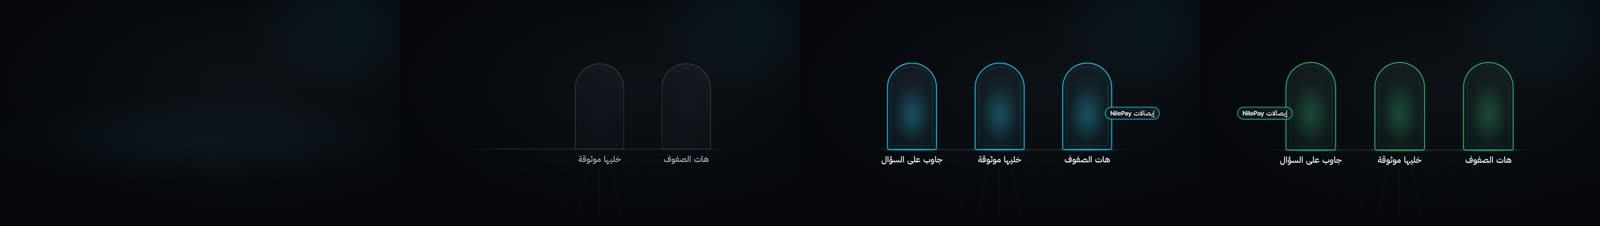
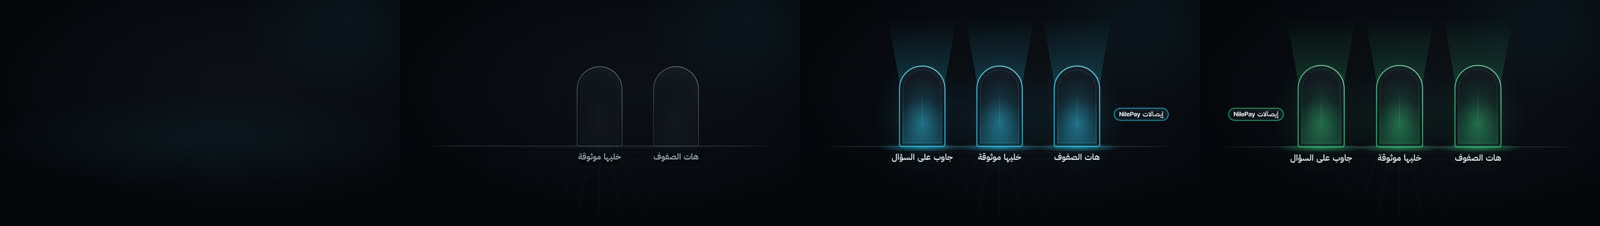
P7 dom-a: TripleGate finished (rim-lit portals, light shaft/pool, comet payload, seeded sparks, text-safe mask); snap PASS det 0 (pending-critic); perf lite 0.130 / standard 0.155 / hero 0.162 box s/frame; Arabic QA pass
Claude-Session: https://claude.ai/code/session_01VrU9wxU8GmuhdhWAAHnnQ8

diff --git a/studio/src/components/TripleGate/TripleGate.tsx b/studio/src/components/TripleGate/TripleGate.tsx
@@ -4,11 +4,17 @@
 // fail (crit barrier). Actions, each anchored to the word that names it (RV1 onset):
 //   ignite {gate | 'all'} -> the gate(s) light up (all: staggered 4 f@24);
 //   pass -> the payload travels through every gate; each gate turns ok as the payload crosses it;
-//   reject {gate} -> the payload stops at that gate, the gate turns fail, the payload recoils in crit and fades.
-// The travel spans the action word (anchor -> word end, at least 18 f@24). DOM only (no WebGL): every tier is the same code.
+//   reject {gate} -> the payload stops at that gate, the gate turns fail (3 f shake <= IMPACT.nudgePxMax), the payload recoils
+//   in crit and fades.
+// The travel spans the action word (anchor -> word end, at least 18 f@24).
+// Look (04 §1.2, ADR-003 LK-F): glowing acrylic arch with a key rim light from the upper right, a light shaft above and a
+// light pool on the floor of every lit gate (the lit gate is the brightest thing on screen), a back glow on the far plane, the
+// holographic floor grid, a comet trail on the payload, a floor ring and a few seeded sparks on every crossing.
+// DOM + SVG only (no WebGL, no filter, no mask-image: deterministic): every tier is the same code, the tier sets glow radii and
+// the spark count. Labels are the only copy; they are whole Arabic words/phrases through the type engine.
 import React from 'react';
-import {interpolate} from 'remotion';
-import {C, FONT, SIZE} from '../../tokens';
+import {interpolate, random} from 'remotion';
+import {C, FONT, IMPACT, SIZE} from '../../tokens';
 import {hex} from '../../fx/look';
 import {isArabic} from '../../type/arabic';
 import {ease} from '../../type/reveal';
@@ -19,13 +25,31 @@ import {FitText, Floor, Place, acrylic, actsOf, clamp, emit, ff, flashAt, layerS
 
 type GState = 'dormant' | 'lit' | 'open' | 'closed' | 'fail';
 const TONE: Record<GState, string> = {dormant: C.ink3, lit: C.signal, open: C.ok, closed: C.ink2, fail: C.crit};
-const ON: Record<GState, number> = {dormant: 0.12, lit: 1, open: 0.9, closed: 0.45, fail: 1};
+const ON: Record<GState, number> = {dormant: 0.12, lit: 1, open: 0.95, closed: 0.45, fail: 1};
 
 type Travel = {t0: number; t1: number; to: number; reject: boolean};
-/** Gate x as a fraction of the payload path (start right of gate 0 -> end left of gate 2). */
-const GATE_F = [0.17, 0.5, 0.83];
+
+const geometry = (box: Rect) => {
+  const labelH = Math.round(SIZE.body * 1.9);
+  const gw = Math.round(Math.min(box.w * 0.13, (box.h - labelH) * 0.42));
+  const gh = Math.round(Math.min((box.h - labelH) * 0.78, gw * 1.75));
+  const cy = box.y + (box.h - labelH) / 2 + 6;
+  const cw = Math.round(Math.min(box.w * 0.2, 360)); // payload capsule slot width: it never leaves the slot (title-safe)
+  const clear = 28;
+  // [payload start | gate 0 | gate 1 | gate 2 | payload end]: the capsule always clears the gate edges at both ends
+  const avail = box.w - 2 * (cw + clear);
+  const spacing = Math.max(gw * 1.05, Math.min((avail - gw) / 2, gw * 1.9));
+  const cx = box.x + box.w / 2;
+  const gx = [0, 1, 2].map((i) => cx + spacing * (1 - i)); // RTL: gate 0 on the right
+  const x0 = box.x + box.w - cw / 2; // payload start (right)
+  const x1 = box.x + cw / 2; // payload end (left)
+  const f = (x: number) => (x0 - x) / (x0 - x1);
+  return {labelH, gw, gh, cy, cw, clear, spacing, gx, x0, x1, gateF: gx.map(f), stopF: gx.map((x) => f(x + gw / 2 + clear + cw / 2)), floorY: cy + gh / 2};
+};
+type Geo = ReturnType<typeof geometry>;
 
 export const tripleTimeline = (p: Props, ctx: LayerCtx) => {
+  const G = geometry(ctx.box);
   const ev: {t: number; s: GState}[][] = p.gates.map((g) => [{t: -1e9, s: (g.state ?? 'dormant') as GState}]);
   for (const a of actsOf(ctx, 'ignite')) {
     const which = a.props.gate === 'all' ? [0, 1, 2] : [a.props.gate as number];
@@ -37,15 +61,16 @@ export const tripleTimeline = (p: Props, ctx: LayerCtx) => {
     const to = reject ? (a.props.gate as number) : 3;
     const t1 = Math.max(a.at + ff(18, ctx.fps), a.end);
     travels.push({t0: a.at, t1, to, reject});
-    // crossing frame of gate g: the eased path reaches GATE_F[g] (inverted numerically on whole frames: deterministic)
+    // crossing frame of gate g: the eased path reaches the gate (inverted numerically on whole frames: deterministic)
     const span = t1 - a.at;
-    const endF = reject ? GATE_F[to] - 0.06 : 1;
+    const endF = reject ? G.stopF[to] : 1;
     const pathAt = (t: number) => endF * interpolate(t + 1, [a.at, a.at + span], [0, 1], {...clamp, easing: ease.camera});
     for (let g = 0; g < 3; g++) {
       if (reject && g > to) continue;
+      const goal = reject && g === to ? endF - 1e-6 : G.gateF[g];
       let tc = t1;
       for (let t = a.at; t <= t1; t++)
-        if (pathAt(t) >= (reject && g === to ? endF - 1e-6 : GATE_F[g])) {
+        if (pathAt(t) >= goal) {
           tc = t;
           break;
         }
@@ -53,10 +78,10 @@ export const tripleTimeline = (p: Props, ctx: LayerCtx) => {
     }
   }
   ev.forEach((e) => e.sort((x, y) => x.t - y.t));
-  return {ev, travels};
+  return {ev, travels, G};
 };
 
-const gateLook = (e: {t: number; s: GState}[], ctx: LayerCtx): {tone: string; on: number; bar: number; s: GState; flash: number} => {
+const gateLook = (e: {t: number; s: GState}[], ctx: LayerCtx) => {
   let k = 0;
   for (let j = 0; j < e.length; j++) if (e[j].t <= ctx.frame) k = j;
   const cur = e[k];
@@ -68,82 +93,151 @@ const gateLook = (e: {t: number; s: GState}[], ctx: LayerCtx): {tone: string; on
     on: ON[prev.s] + (ON[cur.s] - ON[prev.s]) * q,
     bar: barOf(prev.s) + (barOf(cur.s) - barOf(prev.s)) * q,
     s: cur.s,
+    t: k === 0 ? null : cur.t,
     flash: k === 0 ? 0 : flashAt(ctx, cur.t),
   };
 };
 
-const geometry = (box: Rect) => {
-  const labelH = Math.round(SIZE.body * 1.9);
-  const gw = Math.round(Math.min(box.w * 0.14, (box.h - labelH) * 0.42));
-  const gh = Math.round(Math.min((box.h - labelH) * 0.78, gw * 1.75));
-  const cy = box.y + (box.h - labelH) / 2 + 6;
-  const cw = Math.round(Math.min(box.w * 0.26, 420)); // payload capsule width: it never leaves the slot (title-safe)
-  const x0 = box.x + box.w - cw / 2; // payload start (right)
-  const x1 = box.x + cw / 2; // payload end (left)
-  const gx = GATE_F.map((f) => x0 + (x1 - x0) * f);
-  return {labelH, gw, gh, cy, x0, x1, gx, cw};
+/** Arch outline path in a gw x gh box (round top, small bottom corners), inset by the half stroke. */
+const archPath = (w: number, h: number, i = 1.5, rb = 10): string => {
+  const r = w / 2 - i;
+  return `M ${i} ${h - i - rb} V ${w / 2} A ${r} ${r} 0 0 1 ${w - i} ${w / 2} V ${h - i - rb} Q ${w - i} ${h - i} ${w - i - rb} ${h - i} H ${i + rb} Q ${i} ${h - i} ${i} ${h - i - rb} Z`;
+};
+
+/** Seeded sparks leaving the floor line of a gate for 14 f@24; count follows the tier (lite 8, standard / hero 16). */
+const Sparks: React.FC<{ctx: LayerCtx; seed: string; x: number; y: number; t0: number; tone: string; reach: number}> = ({ctx, seed, x, y, t0, tone, reach}) => {
+  const life = ff(14, ctx.fps);
+  const age = ctx.frame - t0;
+  if (age < 0 || age > life) return null;
+  const n = Math.max(0, Math.min(16, Math.round(ctx.fx.particles / 90)));
+  const q = age / life;
+  return (
+    <>
+      {Array.from({length: n}, (_, k) => {
+        const ang = -Math.PI * (0.12 + 0.76 * random(`${seed}:a${k}`));
+        const sp = reach * (0.45 + 0.55 * random(`${seed}:s${k}`));
+        const e = 1 - Math.pow(1 - q, 2.2);
+        const sz = 3 + 3 * random(`${seed}:z${k}`);
+        return (
+          <div
+            key={k}
+            style={{
+              position: 'absolute',
+              left: x + Math.cos(ang) * sp * e - sz / 2,
+              top: y + Math.sin(ang) * sp * e - sz / 2 + 22 * q * q,
+              width: sz,
+              height: sz,
+              borderRadius: '50%',
+              background: tone,
+              opacity: 1 - q,
+              boxShadow: `0 0 ${(ctx.fx.glowInner * 0.8).toFixed(1)}px ${tone}`,
+            }}
+          />
+        );
+      })}
+    </>
+  );
 };
 
 export const TripleGateView: React.FC<DcProps<Props>> = ({props, ctx}) => {
-  const {ev, travels} = tripleTimeline(props, ctx);
-  const G = geometry(ctx.box);
+  const {ev, travels, G} = tripleTimeline(props, ctx);
   const t = ctx.frame;
-  const spacing = G.gx[0] - G.gx[1];
   const fx = ctx.fx;
+  const spacing = G.spacing;
   // payload position along the path
   let pf = 0; // 0..1 of the path
   let payTone: string = C.signal;
   let payAlpha = props.payload ? 1 : 0;
   let moving = false;
+  let trail = 0;
   for (const tr of travels) {
     if (t < tr.t0) break;
-    const endF = tr.reject ? GATE_F[tr.to] - 0.06 : 1;
+    const endF = tr.reject ? G.stopF[tr.to] : 1;
     const q = interpolate(t + 1, [tr.t0, tr.t1], [0, 1], {...clamp, easing: ease.camera});
     pf = endF * q;
     moving = t < tr.t1;
+    trail = moving ? 1 : interpolate(t - tr.t1, [0, ff(6, ctx.fps)], [1, 0], clamp);
     payAlpha = 1;
     payTone = C.signal;
     if (tr.reject && t >= tr.t1) {
       const r = prog(ctx, tr.t1, 'arrive', ease.camera, true);
-      pf = endF - 0.08 * r;
+      pf = endF - 0.04 * r;
       payTone = mix(C.signal, C.crit, prog(ctx, tr.t1, 'label'));
       payAlpha = 1 - interpolate(t - tr.t1, [ff(10, ctx.fps), ff(22, ctx.fps)], [0, 1], clamp);
     } else if (!tr.reject && t >= tr.t1) payTone = C.ok;
   }
   const px = G.x0 + (G.x1 - G.x0) * pf;
+  const payY = G.cy + G.gh * 0.1;
   const payIn = prog(ctx, ctx.at + ff(10, ctx.fps), 'arrive');
   const rtl = props.gates.some((g) => isArabic(g.label));
   const glowK = 1 + ctx.mod.glow;
+  const shaftBase = G.cy - G.gh * 0.15; // the shaft rises from inside the arch (the opaque acrylic hides its foot)
+  const shaftH = Math.max(0, shaftBase - ctx.box.y) * 0.95;
+  const uid = ctx.id.replace(/\W/g, '_');
   return (
     <div style={{position: 'absolute', inset: 0, ...layerStyle(ctx, rtl)}}>
-      <Floor x={ctx.box.x} y={G.cy + G.gh / 2 - 4} w={ctx.box.w} h={Math.round(ctx.box.h * 0.35)} opacity={0.55} />
-      {/* path rail */}
-      <div style={{position: 'absolute', left: G.x1, top: G.cy + G.gh / 2 - 3, width: G.x0 - G.x1, height: 2, background: `linear-gradient(270deg, transparent, ${C.ink3}${hex(0.5)} 12%, ${C.ink3}${hex(0.5)} 88%, transparent)`}} />
+      <Floor x={ctx.box.x} y={G.floorY - 4} w={ctx.box.w} h={Math.round(ctx.box.h * 0.35)} opacity={0.55} />
+      {/* path rail on the floor line */}
+      <div style={{position: 'absolute', left: G.x1 - G.cw / 2, top: G.floorY - 2, width: G.x0 - G.x1 + G.cw, height: 2, background: `linear-gradient(270deg, transparent, ${C.ink3}${hex(0.55)} 10%, ${C.ink3}${hex(0.55)} 90%, transparent)`}} />
       {props.gates.map((g, i) => {
         const lk = gateLook(ev[i], ctx);
-        const ent = prog(ctx, ctx.at + ff(4 * i, ctx.fps), 'arrive');
-        if (t < ctx.at + ff(4 * i, ctx.fps)) return null;
-        const on = lk.on * glowK + lk.flash * 0.8;
+        const at = ctx.at + ff(4 * i, ctx.fps);
+        if (t < at) return null;
+        const ent = prog(ctx, at, 'arrive');
+        const on = Math.min(1.6, lk.on * glowK + lk.flash * 0.8);
+        const on1 = Math.min(1, lk.on);
         const x = G.gx[i];
+        const shake =
+          lk.s === 'fail' && lk.t !== null && t - lk.t < ff(3, ctx.fps) ? (random(`${ctx.id}:shake:${i}:${t - lk.t}`) * 2 - 1) * IMPACT.nudgePxMax : 0;
+        const rim = `rim_${uid}_${i}`;
+        const shaft = `sh_${uid}_${i}`;
+        const ringQ = lk.t !== null && lk.s !== 'dormant' ? prog(ctx, lk.t, 'morph', ease.arrive, true) : 1;
+        const ringA = lk.t !== null && lk.s !== 'dormant' ? 1 - ringQ : 0;
         return (
           <React.Fragment key={i}>
+            {/* far plane: back glow behind the arch */}
+            <div style={{position: 'absolute', left: x - G.gw * 1.1, top: G.cy - G.gh * 0.7, width: G.gw * 2.2, height: G.gh * 1.5, opacity: ent * on1, background: `radial-gradient(ellipse 50% 50% at 50% 55%, ${lk.tone}${hex(0.2 + 0.1 * lk.flash)} 0%, ${lk.tone}${hex(0.05)} 55%, transparent 100%)`}} />
+            {/* light shaft above the arch (haze role: decoration, no copy) */}
+            {shaftH > 40 && on1 > 0.2 ? (
+              <svg width={G.gw * 1.5} height={shaftH} style={{position: 'absolute', left: x - G.gw * 0.75, top: shaftBase - shaftH, opacity: ent * on1}}>
+                <defs>
+                  <linearGradient id={shaft} x1="0" y1="1" x2="0" y2="0">
+                    <stop offset="0" stopColor={lk.tone} stopOpacity={0.22 + 0.18 * lk.flash} />
+                    <stop offset="1" stopColor={lk.tone} stopOpacity={0} />
+                  </linearGradient>
+                </defs>
+                <polygon points={`${G.gw * 0.3},${shaftH} ${G.gw * 1.2},${shaftH} ${G.gw * 1.5},0 0,0`} fill={`url(#${shaft})`} />
+              </svg>
+            ) : null}
             <div
               style={{
                 position: 'absolute',
-                left: x - G.gw / 2,
+                boxSizing: 'border-box',
+                left: x - G.gw / 2 + shake,
                 top: G.cy - G.gh / 2,
                 width: G.gw,
                 height: G.gh,
                 opacity: ent,
                 transform: `translateY(${((1 - ent) * 18).toFixed(1)}px)`,
-                ...acrylic(lk.tone, fx, Math.min(1.6, on), 0),
+                ...acrylic(lk.tone, fx, on, 0),
                 borderRadius: `${G.gw / 2}px ${G.gw / 2}px 10px 10px`,
                 borderWidth: 3,
               }}
             >
-              {/* portal light (inner field) */}
-              <div style={{position: 'absolute', inset: 10, borderRadius: `${G.gw / 2 - 10}px ${G.gw / 2 - 10}px 6px 6px`, background: `radial-gradient(ellipse 70% 60% at 50% 60%, ${lk.tone}${hex(0.32 * Math.min(1, lk.on) + 0.25 * lk.flash)} 0%, ${lk.tone}${hex(0.06 * lk.on)} 60%, transparent 100%)`}} />
-              <div style={{position: 'absolute', inset: 16, borderRadius: `${G.gw / 2 - 16}px ${G.gw / 2 - 16}px 4px 4px`, border: `1.5px solid ${lk.tone}${hex(0.15 + 0.35 * Math.min(1, lk.on))}`}} />
+              {/* portal light: the field fills from the floor up, hot core when it flashes */}
+              <div style={{position: 'absolute', inset: 10, borderRadius: `${G.gw / 2 - 10}px ${G.gw / 2 - 10}px 6px 6px`, background: `radial-gradient(ellipse 75% 62% at 50% 72%, ${lk.tone}${hex(0.42 * on1 + 0.3 * lk.flash)} 0%, ${lk.tone}${hex(0.1 * on1)} 62%, transparent 100%), linear-gradient(0deg, ${lk.tone}${hex(0.2 * on1)} 0%, transparent 55%)`}} />
+              <div style={{position: 'absolute', left: '50%', top: '30%', width: 4, height: '50%', marginLeft: -2, borderRadius: 2, background: `linear-gradient(180deg, transparent, ${C.ink}${hex(0.5 * lk.flash + 0.12 * on1)}, transparent)`}} />
+              <div style={{position: 'absolute', inset: 16, borderRadius: `${G.gw / 2 - 16}px ${G.gw / 2 - 16}px 4px 4px`, border: `1.5px solid ${lk.tone}${hex(0.15 + 0.35 * on1)}`}} />
+              {/* key rim light from the upper right (04 §1.2) */}
+              <svg width={G.gw} height={G.gh} style={{position: 'absolute', left: -3, top: -3, overflow: 'visible'}}>
+                <defs>
+                  <linearGradient id={rim} gradientUnits="userSpaceOnUse" x1={G.gw} y1={0} x2={G.gw * 0.15} y2={G.gh * 0.7}>
+                    <stop offset="0" stopColor={C.ink} stopOpacity={0.35 + 0.5 * on1} />
+                    <stop offset="1" stopColor={C.ink} stopOpacity={0} />
+                  </linearGradient>
+                </defs>
+                <path d={archPath(G.gw, G.gh)} fill="none" stroke={`url(#${rim})`} strokeWidth={2.5} strokeLinecap="round" />
+              </svg>
               {/* barrier (closed / fail) */}
               {lk.bar > 0.01 ? (
                 <div style={{position: 'absolute', left: 8, right: 8, top: '58%', height: 10, borderRadius: 5, background: lk.tone, opacity: lk.bar, transform: `scaleX(${lk.bar.toFixed(3)})`, boxShadow: emit(lk.tone, fx, 0.8)}} />
@@ -157,27 +251,47 @@ export const TripleGateView: React.FC<DcProps<Props>> = ({props, ctx}) => {
                 </svg>
               ) : null}
             </div>
-            {/* floor reflection */}
-            <div style={{position: 'absolute', left: x - G.gw * 0.7, top: G.cy + G.gh / 2 - 10, width: G.gw * 1.4, height: 20, borderRadius: '50%', background: `radial-gradient(ellipse, ${lk.tone}${hex(0.35 * Math.min(1, lk.on) * ent)} 0%, transparent 70%)`}} />
-            <Place x={x} y={G.cy + G.gh / 2 + G.labelH / 2 + 8} w={spacing - 40} h={G.labelH} style={{opacity: ent}}>
+            {/* light pool on the floor + crossing ring */}
+            <div style={{position: 'absolute', left: x - G.gw * 0.95, top: G.floorY - 16, width: G.gw * 1.9, height: 40, borderRadius: '50%', background: `radial-gradient(ellipse, ${lk.tone}${hex(0.5 * on1 * ent + 0.25 * lk.flash)} 0%, ${lk.tone}${hex(0.12 * on1)} 55%, transparent 72%)`}} />
+            {ringA > 0.01 ? (
+              <div style={{position: 'absolute', left: x - G.gw * (0.5 + 0.9 * ringQ), top: G.floorY - 18 * (0.4 + ringQ), width: G.gw * (1 + 1.8 * ringQ), height: 36 * (0.4 + ringQ), borderRadius: '50%', border: `2px solid ${lk.tone}${hex(0.8 * ringA)}`}} />
+            ) : null}
+            {lk.t !== null && lk.s !== 'dormant' && lk.s !== 'lit' && lk.s !== 'closed' ? (
+              <Sparks ctx={ctx} seed={`${ctx.id}:sp:${i}:${lk.t}`} x={x} y={G.floorY} t0={lk.t} tone={lk.tone} reach={G.gh * 0.38} />
+            ) : null}
+            <Place x={x} y={G.floorY + G.labelH / 2 + 12} w={spacing - 40} h={G.labelH} style={{opacity: ent}}>
               <FitText id={`${ctx.id}:g${i}`} text={g.label} size={SIZE.body} maxW={spacing - 40} color={lk.s === 'dormant' ? C.ink2 : C.ink} weight={FONT.label.strong} />
             </Place>
           </React.Fragment>
         );
       })}
       {payAlpha > 0.01 && t >= ctx.at + ff(10, ctx.fps) ? (
-        <Place x={px} y={G.cy + G.gh * 0.08} w={G.cw} h={Math.round(SIZE.label * 2.2)} style={{opacity: payAlpha * payIn, zIndex: 2}}>
-          {props.payload ? (
-            <div style={{...acrylic(payTone, fx, 1.1 * glowK, 999), padding: `6px ${Math.round(SIZE.label * 0.7)}px`, display: 'flex', alignItems: 'center', transform: moving ? 'scale(1.04)' : undefined}}>
-              <FitText id={`${ctx.id}:payload`} text={props.payload} size={SIZE.label} maxW={G.cw - Math.round(SIZE.label * 1.6) - 4} color={C.ink} />
-            </div>
-          ) : (
-            <div style={{width: 26, height: 26, borderRadius: '50%', background: payTone, boxShadow: emit(payTone, fx, 1.4)}} />
-          )}
-        </Place>
+        <>
+          {/* comet trail behind the moving capsule (it travels right -> left, the tail streams to the right) */}
+          {trail > 0.01 ? (
+            <div style={{position: 'absolute', left: px, top: payY - 4, width: Math.min(G.cw * 0.9, 300) * trail, height: 8, borderRadius: 4, opacity: payAlpha * payIn, background: `linear-gradient(90deg, ${payTone}${hex(0.55)} 0%, transparent 100%)`}} />
+          ) : null}
+          <Place x={px} y={payY} w={G.cw} h={Math.round(SIZE.label * 2.2)} style={{opacity: payAlpha * payIn, zIndex: 2}}>
+            {props.payload ? (
+              <div style={{...acrylic(payTone, fx, 1.1 * glowK, 999), padding: `6px ${Math.round(SIZE.label * 0.7)}px`, display: 'flex', alignItems: 'center', transform: moving ? 'scale(1.04)' : undefined}}>
+                <FitText id={`${ctx.id}:payload`} text={props.payload} size={SIZE.label} maxW={G.cw - Math.round(SIZE.label * 1.6) - 4} color={C.ink} />
+              </div>
+            ) : (
+              <div style={{width: 26, height: 26, borderRadius: '50%', background: payTone, boxShadow: emit(payTone, fx, 1.4)}} />
+            )}
+          </Place>
+        </>
       ) : null}
     </div>
   );
 };
 
-export const TripleGate: DcComponent<Props> = {name: 'TripleGate', Component: TripleGateView, text: false, slot: 'full'};
+/** Copy sits in the payload band and under the gates: the text-safe mask (haze, particles, bokeh) covers that band only. */
+export const tripleTextRect = (_p: Props, box: Rect): Rect => {
+  const G: Geo = geometry(box);
+  const y0 = G.cy + G.gh * 0.1 - SIZE.label * 1.4;
+  const y1 = G.floorY + G.labelH + 12 + G.labelH / 2;
+  return {x: box.x, y: y0, w: box.w, h: y1 - y0};
+};
+
+export const TripleGate: DcComponent<Props> = {name: 'TripleGate', Component: TripleGateView, text: true, slot: 'full', textRect: tripleTextRect};
